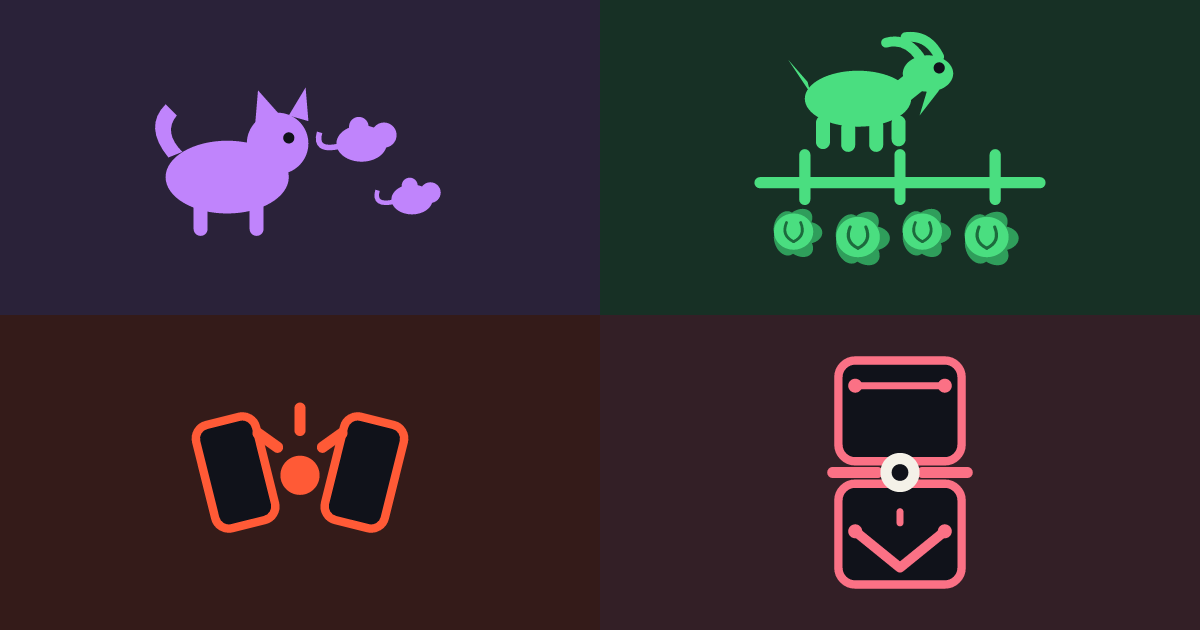
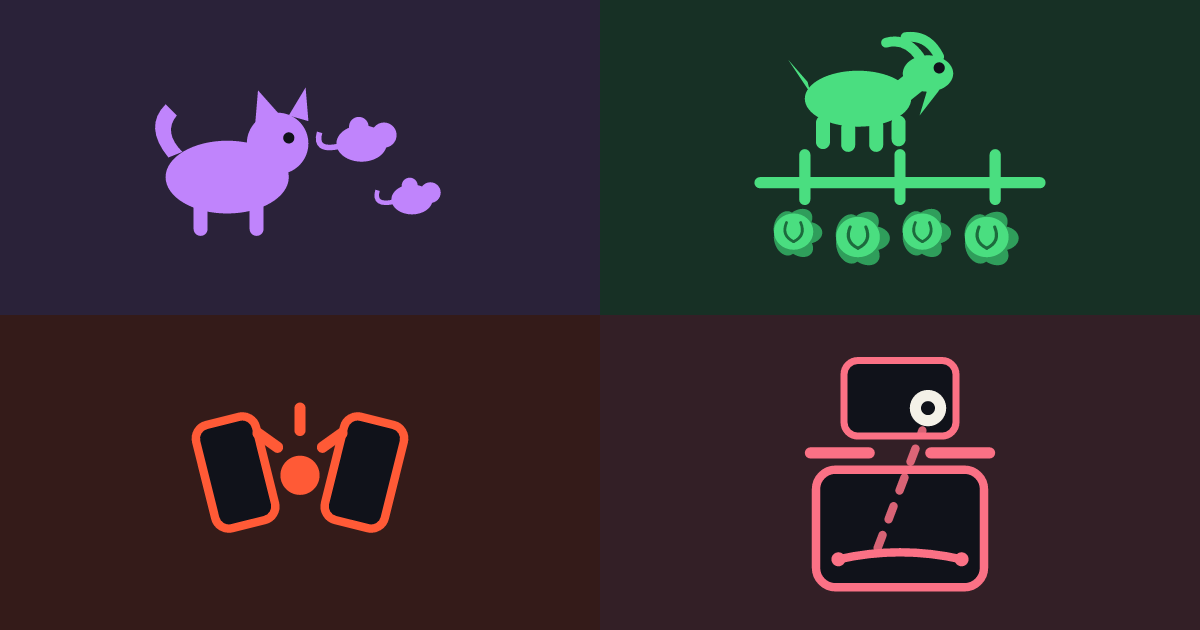
ui(sling-puck): redraw the card as a shot taken, not a diagram
Side by side with Goat Siege and Pass the Bomb, this card was the only one that
read as a wiring diagram: two equal rounded rects joined by a rail, a chevron, and
a dot on the centre line. Nothing in it was moving.

Three faults, and the third is the one that mattered most.

Two equal halves joined by a rail read as ONE object split down the middle rather
than two phones. Yours is now larger and in front, the far half smaller and set
back — the size difference is what makes them two devices.

The far half had a band too, and a straight line inside a rounded rect reads as a
speaker grille. You cannot see the other player's half anyway (spec §4), so
drawing it was wrong twice. Only your band is left, and it is snapped forward
rather than pulled into a V: a V reads as a downward chevron, which is what the
old one looked like.

And the axis. Puck, gap and trail all sat on one centred vertical line, which is
the grammar of a diagram — symmetrical, static, explaining itself. The shot now
leans and clips the gap off centre, which reads as something travelling and is
truer to a game where you bank off the walls rather than firing up the middle.

The vertical arrangement stays: the game is two phones nose to nose with the gap
at the top, so a side-by-side composition would picture better and lie about the
game. The earlier version's comments recorded why a bare V and a trail feeding
into it were rejected; both stay rejected, for the reasons it gave.

Changed region(s): [[0.6475, 0.573, 0.8325, 0.9651]]

diff --git a/docs/specs/games/sling-puck.md b/docs/specs/games/sling-puck.md
@@ -4,7 +4,7 @@
 | --- | --- |
 | **Slug** | `sling-puck` |
 | **Catchy sentence** | *Sling every puck onto their side before they sling them back* |
-| **Illustration** | `www/src/games/sling-puck/art/card.svg` — two phones nose to nose, a stretched elastic on the near one, a puck streaking through the gap between them |
+| **Illustration** | `www/src/games/sling-puck/art/card.svg` — the shot already taken: your half large in front with the band snapped forward, the far half smaller and set back, and the puck across the gap on an **off-centre** line. The lean is deliberate — puck, gap and trail on one centred vertical axis read as a wiring diagram rather than a game, and banking off the walls is how it is actually played |
 | **Players** | 2 — exactly |
 | **Round length** | 30 s – 2 min |
 | **Inputs** | touch (drag back and release) |
